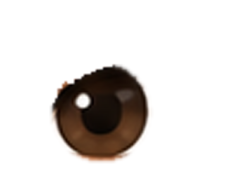
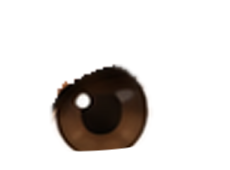
Niveau scolaire : tout le monde part de 0 %, seule la vitesse change ; iris coupés sous la paupière ; onglets Joues, Rides et Baby hairs retirés ; « Homosexuel·le » au lieu de « Lesbienne/Gay », v58
Claude-Session: https://claude.ai/code/session_01RffJDTtPaeahFdiXkdY2ya

Changed region(s): [[0.3043, 0.8529, 0.5783, 0.9706]]

diff --git a/js/app.js b/js/app.js
@@ -1,5 +1,5 @@
 /* numéro de version visible dans l'appli (à augmenter avec VERSION dans sw.js) */
-const APP_VERSION='57';
+const APP_VERSION='58';
 /* gemmes mises de côté pour l'instant (demande de Prescillia) : le compteur G.gems continue en silence,
    mais rien ne les montre, ne les coûte ni ne les annonce. Remettre à true pour les réactiver. */
 const GEMS_ON=false;
@@ -1344,9 +1344,7 @@ const TABS=[
   {id:'skin',label:'Peau',cols:SKIN},
   {id:'nose',label:'Nez',opts:['bouton','rond','petit','pointu','aucun'],vb:hv('150 208 100 80'),adj:'nose'},
   {id:'mouth',label:'Bouche',opts:MOUTHS,vb:hv('145 248 110 76'),adj:'mouth'},
-  {id:'cheeks',label:'Joues',opts:['aucune','rose','fort'],vb:hv('95 175 210 140')},
   {id:'freckles',label:'Taches de rousseur',opts:['aucune','legeres','beaucoup'],vb:hv('115 195 170 95')},
-  {id:'rides',label:'Rides',opts:['aucune','fines','marquees'],vb:hv('95 110 210 210')},
   {id:'barbe',label:'Barbe',noF:1,opts:['aucune','duvet','barbe3j','moustache','bouc','collier','courte'],vb:hv('100 215 200 125')}]},
  {label:'Yeux',subs:[
   {id:'eyes',label:'Forme',opts:typeof EYE_ART!=='undefined'?Object.keys(EYE_ART):Object.keys(EYES),vb:hv('112 155 176 100'),adj:'eyes'},
@@ -1354,7 +1352,7 @@ const TABS=[
   {id:'iris',label:'Iris',cols:IRIS},
   {id:'brows',label:'Sourcils',opts:Object.keys(BROWS),vb:hv('112 128 176 100'),adj:'brows'},
   {id:'browColor',label:'Couleur des sourcils',cols:BROWC}]},
- {label:'Cheveux',subs:CAT_H.filter(([k])=>k==='all'||HAIR_ALL.some(h=>HAIRDB[h].c.split(' ').includes(k))).map(([k,l])=>({label:l,hairCat:k})).concat([{id:'hairColor',label:'Couleur',cols:HAIR},{id:'edges',label:'Baby hairs',opts:['aucun','baby'],vb:hv('90 100 220 120')}])},
+ {label:'Cheveux',subs:CAT_H.filter(([k])=>k==='all'||HAIR_ALL.some(h=>HAIRDB[h].c.split(' ').includes(k))).map(([k,l])=>({label:l,hairCat:k})).concat([{id:'hairColor',label:'Couleur',cols:HAIR}])},
  {label:'Tenue',subs:Object.entries(WEAR).map(([k,W])=>({label:W.l,wear:k}))},
  {label:'Corps',subs:[
   {id:'taille',label:'Taille',opts:Object.keys(TAILLE),vb:FVB,tall:1},
@@ -1386,6 +1384,8 @@ const clone=o=>JSON.parse(JSON.stringify(o));
 function noAcc(s){if(s.hat==='aucun'&&s.bag==='aucun'&&s.necklace==='aucun'&&s.glasses==='aucune'&&['aucune','anneaux'].includes(s.earrings))return s;return {...s,hat:'aucun',bag:'aucun',necklace:'aucun',glasses:'aucune',earrings:s.earrings==='anneaux'?'anneaux':'aucune'}}
 function normalize(x){const s=clone(DEFAULT);if(x&&typeof x==='object'){for(const k in s){if(k!=='adj'&&typeof x[k]===typeof s[k])s[k]=x[k]}if(x.adj)for(const k in s.adj){if(typeof x.adj[k]==='number')s.adj[k]=x.adj[k]}}s.hair=hairOk(s.hair);s.face=faceKey(s.face);if(typeof EYE_ART!=='undefined'&&!EYE_ART[s.eyes])s.eyes=EYE_OLD[s.eyes]||'amande';if(typeof EYE_LASHES!=='undefined'&&!EYE_LASHES.includes(s.cils))s.cils='naturels';if(!BROWS[s.brows])s.brows='naturels';if(typeof MOUTH_ART!=='undefined'&&!MOUTH_ART[s.mouth])s.mouth=MOUTH_OLD[s.mouth]||'naturelle';if(x&&typeof x.nom!=='string'&&/\s/.test((s.name||'').trim())){const w=s.name.trim().split(/\s+/);s.name=w.shift();s.nom=w.join(' ').replace(/^./,c=>c.toUpperCase())}else if(x&&typeof x.nom!=='string')s.nom=['Léa','Enzo',''].includes((s.name||'').trim())?DEFAULT.nom:'';if(!(s.name||'').trim()){s.name=s.sexe==='m'?'Enzo':'Léa';if(!(s.nom||'').trim())s.nom=DEFAULT.nom}return s}
 let state=(()=>{try{const v=localStorage.getItem(KEY);return v?normalize(JSON.parse(v)):clone(DEFAULT)}catch(e){return clone(DEFAULT)}})();
+/* joues, rides et baby hairs ne se choisissent plus dans l'atelier : on les retire de l'avatar du joueur */
+Object.assign(state,{cheeks:'aucune',rides:'aucune',edges:'aucun'});
 let tab=0, sub=0;
 
 /* ---------- interface ---------- */
@@ -1398,15 +1398,16 @@ function drawPortrait(){const full=pview==='full';portrait.classList.toggle('ful
  drawIdent();
  if(document.activeElement!==codeEl) codeEl.value=JSON.stringify(state);}
 /* ---------- parcours : personnalité, raison du changement, ancien lycée, niveau et facilités ---------- */
-const PERSOS={sociable:{l:['Drôle et sociable','Drôle et sociable'],x:"+5 d'amitié avec tout le monde au départ"},timide:{l:['Timide et observatrice','Timide et observateur'],x:'Réservé·e, mais Jade et Jessica se sentent proches de toi (+10)'},ambitieux:{l:['Ambitieuse et travailleuse','Ambitieux et travailleur'],x:'+5 % de réussite dans toutes les matières'},
- sportif:{l:['Sportive et énergique','Sportif et énergique'],x:"EPS +15 % et les sportifs t'apprécient (+8)"},creatif:{l:['Rêveuse et créative','Rêveur et créatif'],x:"Français et philo +6 %, les artistes t'apprécient (+8)"},rebelle:{l:['Rebelle au grand cœur','Rebelle au grand cœur'],x:'Les populaires te remarquent (+8), mais les profs te surveillent'}};
+const PERSOS={sociable:{l:['Drôle et sociable','Drôle et sociable'],x:"+5 d'amitié avec tout le monde au départ"},timide:{l:['Timide et observatrice','Timide et observateur'],x:'Réservé·e, mais Jade et Jessica se sentent proches de toi (+10)'},ambitieux:{l:['Ambitieuse et travailleuse','Ambitieux et travailleur'],x:'Tu progresses un peu plus vite dans toutes les matières'},
+ sportif:{l:['Sportive et énergique','Sportif et énergique'],x:"Tu progresses plus vite en EPS et les sportifs t'apprécient (+8)"},creatif:{l:['Rêveuse et créative','Rêveur et créatif'],x:"Tu progresses plus vite en français et en philo, les artistes t'apprécient (+8)"},rebelle:{l:['Rebelle au grand cœur','Rebelle au grand cœur'],x:'Les populaires te remarquent (+8), mais les profs te surveillent'}};
 const persoL=(k,sx)=>{const p=(PERSOS[k]||PERSOS.sociable).l;return sx==='m'?p[1]:p[0]};
 const RAISONS={demenagement:'Ta famille a déménagé',metropole:'Retour de métropole',specialite:'Une spécialité qui n\'existait pas dans ton ancien lycée',renvoi:'Renvoyé·e de ton ancien lycée',depart:'Un nouveau départ après une année difficile',parents:'La séparation de tes parents'};
 const ANCIENS=['Lycée Baimbridge (Les Abymes)','Lycée Carnot (Pointe-à-Pitre)','Lycée Gerville-Réache (Basse-Terre)','Lycée de Providence (Les Abymes)','Lycée Faustin-Fléret (Morne-à-l\'Eau)','Lycée de Bellevue (Fort-de-France)','Lycée Henri-IV (Paris)','Lycée Montaigne (Bordeaux)'];
-const NIVEAUX={excellent:{l:'Excellent·e',start:58,k:1.3},bon:{l:'Bon niveau',start:48,k:1.15},moyen:{l:'Moyen',start:40,k:1},difficulte:{l:'En difficulté',start:30,k:.85}};
+/* tout le monde part de 0 % : le niveau ne change que la vitesse de progression */
+const NIVEAUX={excellent:{l:'Excellent·e',start:0,k:1.3},bon:{l:'Bon niveau',start:0,k:1.15},moyen:{l:'Moyen',start:0,k:1},difficulte:{l:'En difficulté',start:0,k:.85}};
 const FORTS_MAX=2;
 /* gains de réussite selon le niveau et les facilités : on avance plus ou moins vite */
-function gainK(sub,g){const s=me(),n=NIVEAUX[s.niveau]||NIVEAUX.moyen,f=(s.forts||[]).includes(sub);if(g>0)return Math.max(1,Math.round(g*n.k*(f?1.5:1)));return f?Math.round(g*.6):g}
+function gainK(sub,g){const s=me(),n=NIVEAUX[s.niveau]||NIVEAUX.moyen,f=(s.forts||[]).includes(sub),pk=s.perso==='ambitieux'?1.1:s.perso==='sportif'&&sub==='eps'?1.3:s.perso==='creatif'&&(sub==='francais'||sub==='philo')?1.2:1;if(g>0)return Math.max(1,Math.round(g*n.k*pk*(f?1.5:1)));return f?Math.round(g*.6):g}
 function drawParcours(){let el=$('parcours');if(!el){el=document.createElement('div');el.id='parcours';el.className='ident';$('idBlock').after(el);
   el.addEventListener('click',e=>{const b=e.target.closest('[data-niv],[data-fort]');if(!b)return;
    if(b.dataset.niv)state.niveau=b.dataset.niv;else{const k=b.dataset.fort,F=state.forts||[];state.forts=F.includes(k)?F.filter(x=>x!==k):F.length>=FORTS_MAX?[...F.slice(1),k]:[...F,k]}drawParcours();codeEl.value=JSON.stringify(state)});
@@ -1419,13 +1420,12 @@ function drawParcours(){let el=$('parcours');if(!el){el=document.createElement('
  <div class="field"><label for="pAncien">Ancien lycée</label><input id="pAncien" type="text" maxlength="60" list="pAnciens" autocomplete="off" value="${esc(state.ancien||'')}"><datalist id="pAnciens">${ANCIENS.map(a=>`<option value="${esc(a)}"></option>`).join('')}</datalist></div>
  <div class="field"><span class="lbl" id="lblNiv">Niveau scolaire</span><div class="segs" role="group" aria-labelledby="lblNiv">${Object.entries(NIVEAUX).map(([k,v])=>`<button class="sub" type="button" data-niv="${k}" aria-pressed="${state.niveau===k}">${esc(T(v.l))}</button>`).join('')}</div></div>
  <div class="field"><span class="lbl" id="lblFort">Facilités (${FORTS_MAX} matières max)</span><div class="segs" role="group" aria-labelledby="lblFort">${Object.entries(SUBJ).map(([k,v])=>`<button class="sub" type="button" data-fort="${k}" aria-pressed="${(state.forts||[]).includes(k)}">${esc(v)}</button>`).join('')}</div></div>
- <p class="hint">${esc(T(`Au départ, ${(NIVEAUX[state.niveau]||NIVEAUX.moyen).start} % de chances de réussite dans chaque matière (+12 % dans tes facilités). En cours, tu progresses plus ou moins vite selon ton niveau (×${String((NIVEAUX[state.niveau]||NIVEAUX.moyen).k).replace('.',',')}), et 1,5 fois plus vite dans tes facilités.`))}</p>`}
-function applyParcours(g){const s=me(),n=NIVEAUX[s.niveau]||NIVEAUX.moyen;Object.keys(g.know).forEach(k=>{g.know[k]=n.start+((s.forts||[]).includes(k)?12:0)});
+ <p class="hint">${esc(T(`Tout le monde part de 0 % de chances de réussite dans chaque matière. Ton niveau change seulement la vitesse à laquelle tu progresses (×${String((NIVEAUX[state.niveau]||NIVEAUX.moyen).k).replace('.',',')}), et 1,5 fois plus vite dans tes facilités.`))}</p>`}
+function applyParcours(g){const s=me(),n=NIVEAUX[s.niveau]||NIVEAUX.moyen;Object.keys(g.know).forEach(k=>{g.know[k]=0});
  const add=(ids,d)=>ids.forEach(i=>{if(g.rel[i])g.rel[i].ami=clamp(g.rel[i].ami+d,-30,100)});
- ({sociable:()=>add(NPCS.map(n=>n.id),5),timide:()=>add(['jade','jessica'],10),ambitieux:()=>Object.keys(g.know).forEach(k=>g.know[k]=clamp(g.know[k]+5,0,100)),
-  sportif:()=>{g.know.eps=clamp(g.know.eps+15,0,100);add(GROUPS.sport.m,8)},creatif:()=>{g.know.francais+=6;g.know.philo+=6;add(GROUPS.art.m,8)},rebelle:()=>add(GROUPS.pop.m,8)}[s.perso]||(()=>{}))()}
+ ({sociable:()=>add(NPCS.map(n=>n.id),5),timide:()=>add(['jade','jessica'],10),sportif:()=>add(GROUPS.sport.m,8),creatif:()=>add(GROUPS.art.m,8),rebelle:()=>add(GROUPS.pop.m,8)}[s.perso]||(()=>{}))()}
 const SEXES=[['f','Fille'],['m','Garçon'],['nb','Non-binaire']],ORIS=['hetero','homo','bi','pan','ace'];
-const oriShort=(o,g)=>({hetero:'Hétéro',homo:g==='f'?'Lesbienne':g==='m'?'Gay':'Homo',bi:'Bi',pan:'Pan',ace:g==='f'?'Asexuelle':g==='m'?'Asexuel':'Asexuel·le'})[o];
+const oriShort=(o,g)=>({hetero:'Hétéro',homo:g==='f'?'Homosexuelle':g==='m'?'Homosexuel':'Homosexuel·le',bi:'Bi',pan:'Pan',ace:g==='f'?'Asexuelle':g==='m'?'Asexuel':'Asexuel·le'})[o];
 function attracted(o,g,h){if(o==='ace')return false;if(o==='bi'||o==='pan')return true;return o==='homo'?g===h:g!==h}
 function oriHint(g,o){if(o==='ace')return "Pas d'histoire de cœur : ton personnage vivra surtout des amitiés.";const who=o==='bi'||o==='pan'?'tout le monde':o==='homo'?{f:'des filles',m:'des garçons',nb:'des personnes non-binaires'}[g]:{f:'des garçons',m:'des filles',nb:'des filles et des garçons'}[g];return `Ton personnage pourra vivre des histoires de cœur avec ${who}. Chaque camarade a aussi sa propre attirance.`}
 function drawIdent(){drawParcours();if(editFam)return;
@@ -1676,7 +1676,7 @@ const P=t=>gtxt(t,me().sexe),S=(id,t)=>gtxt(t,sexOf(id));
 const profSex=n=>/^(Mme|Mrs|Sra|Mlle)/.test(n)?'f':'m';
 /* {p:…} = accord avec le joueur ou la joueuse ; le reste s'accorde avec la personne qui parle */
 function genderize(t,speaker){return String(t).replace(/\{p:([^}]+)\}/g,(_,x)=>P(x)).replace(/\{s:([^}]+)\}/g,(_,x)=>S(speaker,x)).replace(/[A-Za-zÀ-ÿ]+·(rice|ère|e|ne|se|le)\b/g,w=>S(speaker,w))}
-const oriLabel=(o,g)=>{const e=g==='f'?'le':g==='m'?'':'·le';return o==='homo'?(g==='f'?'Lesbienne':g==='m'?'Gay':'Homosexuel·le'):o==='hetero'?'Hétérosexuel'+e:o==='bi'?'Bisexuel'+e:o==='pan'?'Pansexuel'+e:'Asexuel'+e};
+const oriLabel=(o,g)=>{const e=g==='f'?'le':g==='m'?'':'·le';return o==='homo'?(g==='f'?'Homosexuelle':g==='m'?'Homosexuel':'Homosexuel·le'):o==='hetero'?'Hétérosexuel'+e:o==='bi'?'Bisexuel'+e:o==='pan'?'Pansexuel'+e:'Asexuel'+e};
 const npcLikesMe=id=>isNpc(id)&&attracted(FICHES[id].o,FICHES[id].g,me().sexe);
 const iLike=id=>isNpc(id)&&attracted(me().orient,me().sexe,FICHES[id].g);
 const objOk=o=>me().orient==='ace'?!o.rom:!o.ace;

diff --git a/sw.js b/sw.js
@@ -2,7 +2,7 @@
    Stratégie : réseau d'abord (toujours la dernière version quand il y a internet), copie en cache sinon.
    À l'installation, les fichiers sont téléchargés sans passer par le cache du navigateur (cache: 'reload').
    Nouveau fichier dans le jeu (image, script…) : l'ajouter à FICHIERS et augmenter VERSION. */
-const VERSION = 'v57';
+const VERSION = 'v58';
 const CACHE = 'lycee-' + VERSION;
 const FICHIERS = [
   './', 'index.html', 'manifest.webmanifest', 'assets/logo.png',

diff --git a/tools/yeux-iris-coupe.py b/tools/yeux-iris-coupe.py
@@ -1,0 +1,29 @@
+"""Coupe le bas des iris (assets/yeux/*-iris-*.png) qui dépasse sous la paupière inférieure.
+La limite basse est la courbe (parabole) qui passe par le bas du blanc de l'œil de chaque côté de l'iris."""
+import glob, os, sys
+import numpy as np
+from PIL import Image
+D = os.path.join(os.path.dirname(__file__), '..', 'assets', 'yeux')
+for f in sorted(glob.glob(os.path.join(D, '*-iris-*.png'))):
+    e = np.array(Image.open(f.replace('-iris-', '-')).convert('RGBA')).astype(float)
+    im = Image.open(f).convert('RGBA'); i = np.array(im).astype(float)
+    H, W = e.shape[:2]; ea, ia = e[:, :, 3], i[:, :, 3].copy()
+    xs, ys = [], []
+    for x in range(W):
+        col = np.where(ea[:, x] > 120)[0]
+        if not len(col): continue
+        b = col.max()
+        xs.append(x); ys.append(b)
+    icols = np.where(ia.max(axis=0) > 30)[0]; x0, x1 = icols.min(), icols.max()
+    # bas du blanc de l'œil juste à côté de l'iris (moins de 30 px), là où il est bien sous l'iris
+    sel = [(x, y) for x, y in zip(xs, ys) if (x0 - 30 <= x <= x1 + 30) and (ia[:, x].max() < 30 or y > np.where(ia[:, x] > 30)[0].max())]
+    if len(sel) < 4: print('?', os.path.basename(f)); continue
+    a, bb, c = np.polyfit([q[0] for q in sel], [q[1] for q in sel], 2)
+    if a < 0: a, bb, c = 0, *np.polyfit([q[0] for q in sel], [q[1] for q in sel], 1)
+    X = np.arange(W); xc, hw = (x0 + x1) / 2, max(1, (x1 - x0) / 2)
+    lim = a * X * X + bb * X + c - 1.0 + 3.0 * np.clip(1 - ((X - xc) / hw) ** 2, 0, 1)  # paupière légèrement arrondie
+    Y = np.arange(H)[:, None]
+    k = np.clip((lim[None, :] - Y) / 2 + 1, 0, 1)  # 1 au-dessus de la limite, fondu sur 2 px
+    i[:, :, 3] = ia * k
+    Image.fromarray(i.astype(np.uint8)).save(f)
+    print('ok', os.path.basename(f), int((ia > 30).sum() - (i[:, :, 3] > 30).sum()), 'px retirés')
